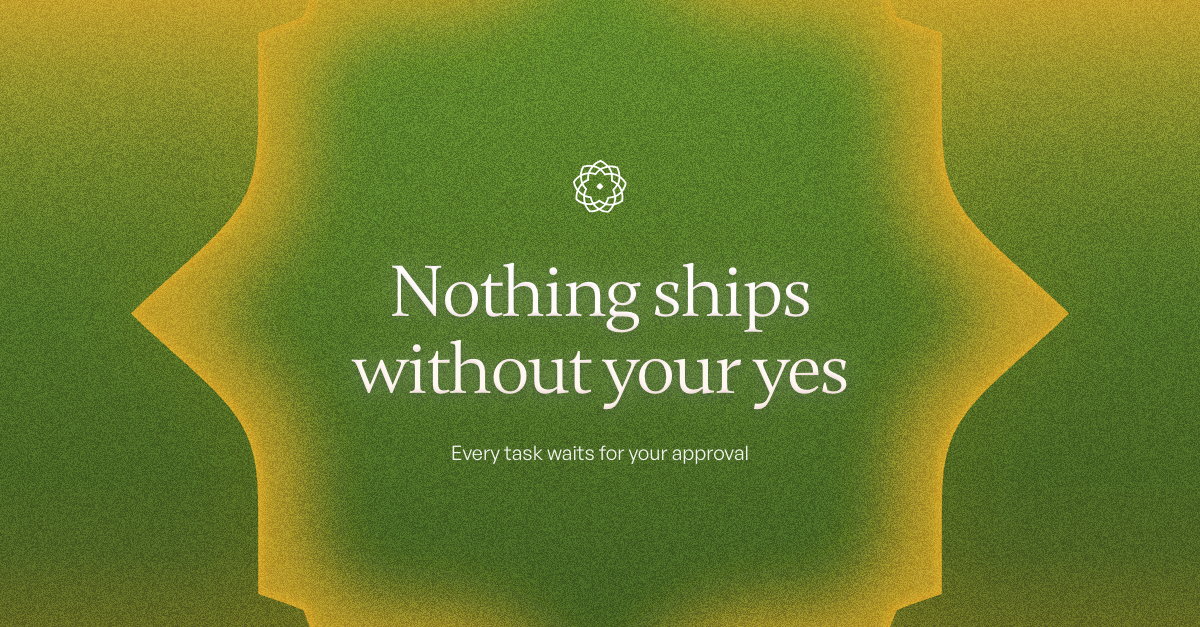
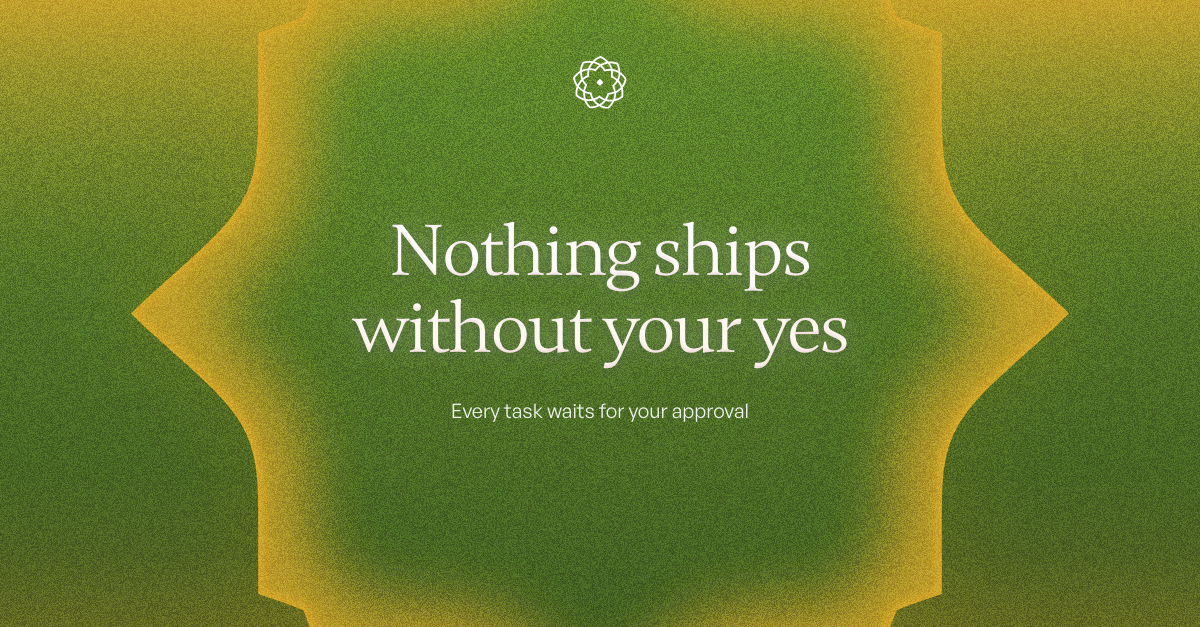
your-yes: portrait version, logomark above the shape, two-line title

diff --git a/process/prompt-log.md b/process/prompt-log.md
@@ -514,3 +514,8 @@ Entry format:
 - Shape: Cusped window → **Eight-point star**, the one glow medallion not used elsewhere in the set.
 - New `whole` option for medallion-glow: on LinkedIn the shape no longer bleeds off the frame (it was cropped to ~70% of its height), so it reads as the same object on both formats.
 - First try fitted the whole star inside the frame. The LinkedIn headline fell to 59px (QA fail, min 72). Scaled to 1.12 H instead: only the top and bottom tips touch the edges, and the headline is back above 72px. QA PASS, re-exported.
+
+## 2026-11-04 — your-yes: portrait version, logomark above the shape, two-line title
+- Prompts (verbatim): "show me the portrait version of this." · "Imported. Keep the Sarvam logo out of the pattern." · "Like at the top" · "If possible try to make the title a two-liner." · "Don't change the pattern. The pattern was good."
+- Added a Meta portrait to `your-yes`. The logomark moved out of the shape to the top centre. The title is forced to two lines ("Nothing ships / without your yes"). The shape stays the Ogee cross. (While Malay was replying I briefly tested Quatrefoil and Scalloped; both were reverted.)
+- Open: on portrait the Ogee cross's core is narrow, so the two-line title sets at 63px, under the 96px Meta minimum (QA flags it). LinkedIn passes at full size.
